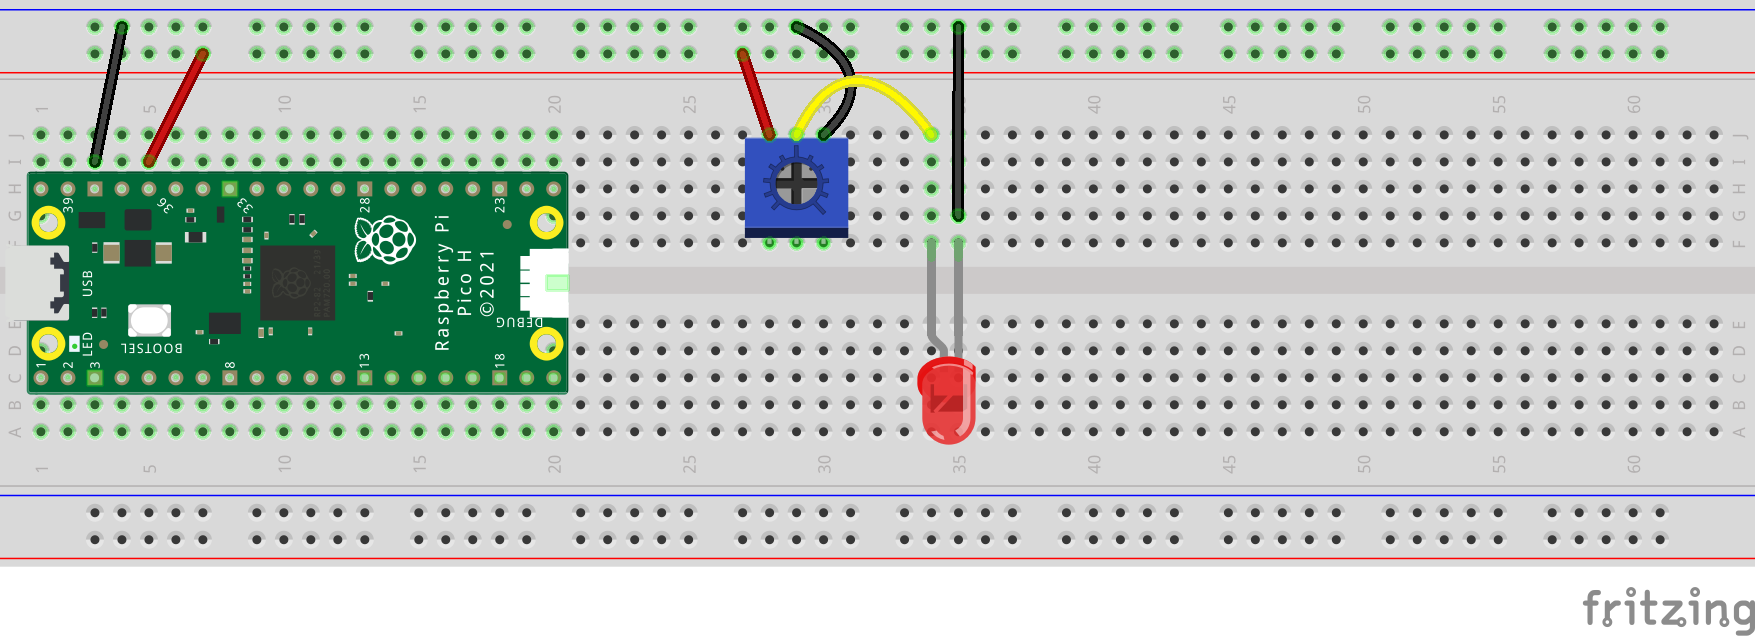
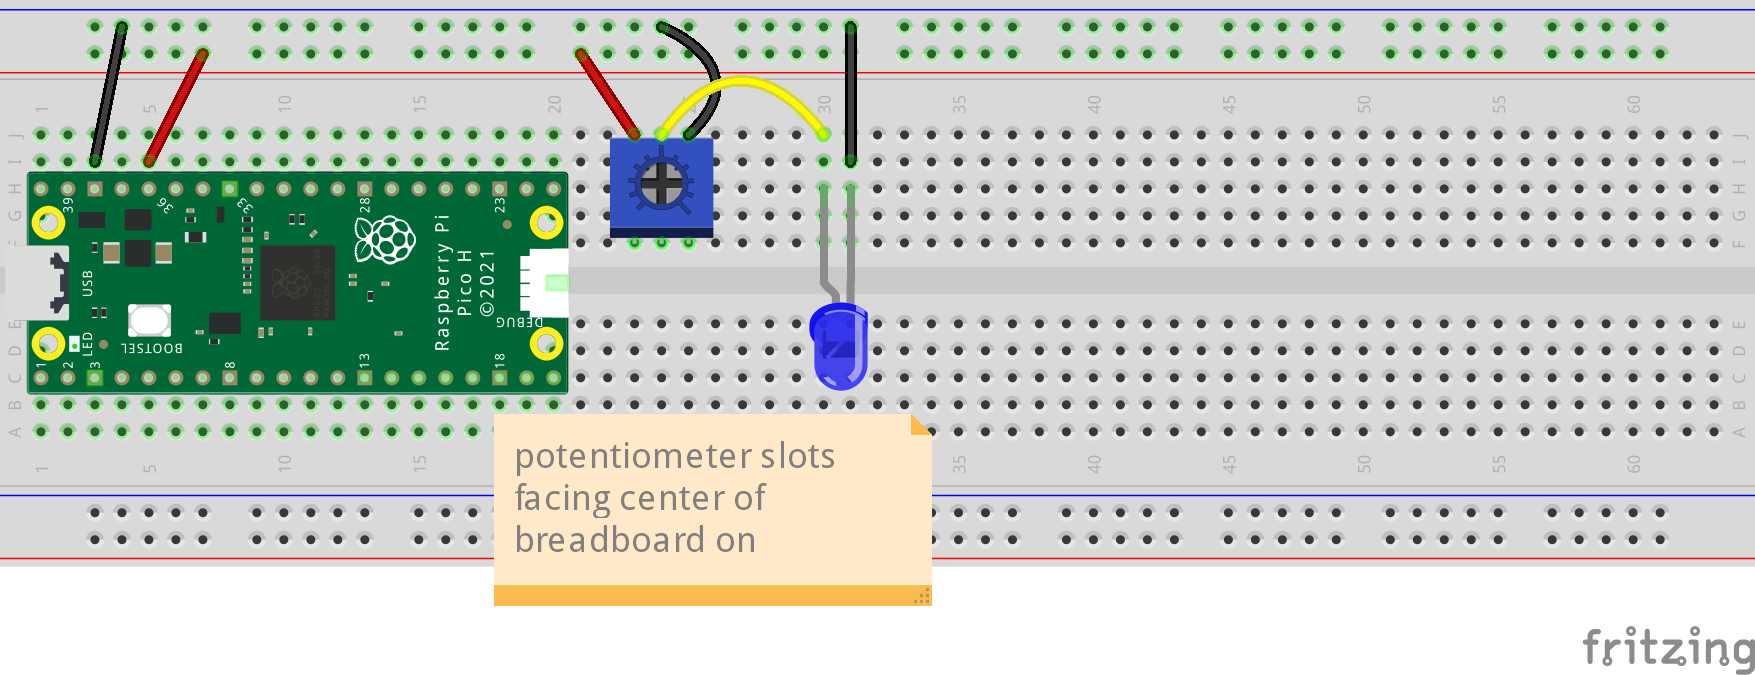
added potentiometer lab and add celebratory clauses

diff --git a/labs/potentiometer.md b/labs/potentiometer.md
@@ -1,0 +1,26 @@
+# Potentiometer
+
+## Overview
+
+We used our first type of variable resistor in the last lab when we used the Photoresistor.  In this lab we will use another type of variable resistor the Potentiometer.
+
+## Potentiometer
+
+A Potentiometer(pictured below) is a type of variable resistor that provides a different level of resistence based on the position of the knob.  By turning the knob ontop of the potentiometer, you can vary the resistence it provides.  The type of Potentiometer we are using is often referred to a as a trim potentiometer or "trim pot" for short.
+
+![Potentiometer image](/images/trimpot.png)
+
+ ## What to do
+
+For this lab, we will replace the photoresistor in our circuit with our potentiometer.  So remove the photoresistor that connects the long side of the LED currently in column 30 to the power rail. 
+
+Add the potentiometer to the breadboard making sure the side with the slots are near the middle section of the breadboard.  Make sure the 3 pins of the potentiometer are in different columns.  The far right pin when looking at the slots should go into the breadboard at Row G and column 25. This should position the middle pin into the breadboard at Row F and column 24.
+
+With the potentiometer in place, connect the far left pin to our power rail. So, that should mean connecting a wire from the positive power rail to Column 23.  
+Now connect the middle pin of the potentiometer which is in column 24 to the long leg of the LED in column 30.  Now connect the last pin (far right pin) of the potentiometer to ground.  That is run a wire from Column 25 to the ground(negative) rail.
+
+If everything is connected properly you should be able to twist the knob ontop of the potentiometer and see the LED dim and brighten.  
+
+If it works high five someone nearby.
+
+![Resistor Circuit](/images/4_Circuit_bb.png)

diff --git a/labs/photo_resistor.md b/labs/photo_resistor.md
@@ -12,11 +12,13 @@ A Photoresistor(pictured below) is a type of variable resistor that provides som
 
  ## What to do
 
-For this lab, we will simply replace the resistor in our resistor with our photoresistor.  So simple remove the resistor that connects the long side of the LED currently in column 30 to the power rail. Now add the photoresistor in place of it.  Connect one side of the photoresistor leg to Column 30 and the other side to the positive power rail.  The legs of the photoresistor can go either way.
+For this lab, we will simply replace the resistor in our circuit with our photoresistor.  So simple remove the resistor that connects the long side of the LED currently in column 30 to the power rail. Now add the photoresistor in place of it.  Connect one side of the photoresistor leg to Column 30 and the other side to the positive power rail.  The legs of the photoresistor can go either way.
 
 Once you have the photo resistor in place, try covering the photoresistor with your finger and see if the light dims.  Then remove your finger from the top of the photoresistor and see if the LED brightens.  
 
 Now you have a variable resistor in place!  We can use variable resistors in the future as analog input devices.  That is they are not digital where they provide a binary value, but analog in the fact they can provide a range of values that vary.  Don't worry too much about this for now, but just have fun playing with your photoresistor... for fun shine a bright light(light from your phone) on the photoresistor and see if you can get your LED really bright.  
+
+If it works let out a quiet "Oh Yeah!".
 
 
 ![Resistor Circuit](/images/3_Circuit_bb.png)

diff --git a/labs/resistor_intro.md b/labs/resistor_intro.md
@@ -37,5 +37,6 @@ So, remove the red wire connecting the positve rail to Pin 30 (long side of the 
 Once you connect the resistor, you should see the LED light up again, but be dimmer.  
 Swap out the resistor with another one in your kit and see if it gets even dimmer or brighter.  Can you tell by the brightness level which resistor has the most resistance(more Ohms)?
 
+If it works pat yourself on the back.
 
 ![Resistor Circuit](/images/2_Circuit_bb.png)

diff --git a/labs/first_circuit.md b/labs/first_circuit.md
@@ -50,6 +50,8 @@ Once everything is wired, if you plug in your Pico via the USB cable, you should
 
 When you have light, rejoice! You've just made the world a little brighter literally! :)
 
+If it works do a slow nod of satisfaction.
+
 
 #### Follow Up and Troubleshooting:
 
